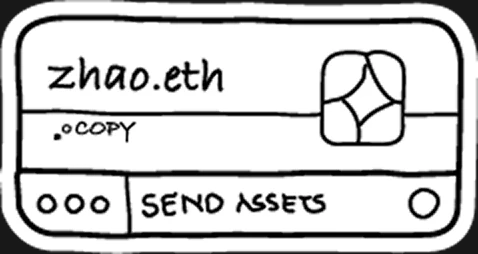
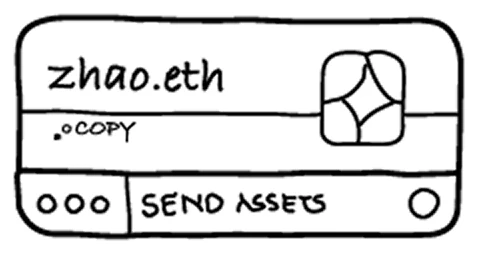
release: v0.73.0 — footer copy + breakpoint fix, transparent image alpha
- Footer credit → "Made in 2026" (single source, both variants)
- Footer responsive breakpoint → canonical (max-width: 767px), (max-height: 500px)
- Re-converted web3_abstractor + send_assets webp from source PNGs with alpha preserved
- Regenerated LQIP manifest (both now hasAlpha: true)
- Prepush skill: added performance-hygiene checks

Changed region(s): [[0.0, 0.3031, 1.0, 1.0], [0.0, 0.0, 1.0, 0.689]]

diff --git a/app/components/Img/manifest.generated.ts b/app/components/Img/manifest.generated.ts
@@ -124,10 +124,10 @@ export const imageManifest: Record<string, ImageManifestEntry> = {
   },
   "/images/biconomy/api/send_assets.webp": {
     "dominantColor": "rgb(248, 248, 248)",
-    "thumbHash": "8wcGBIAnWDeKd2mAhpcZLG8+DQ==",
+    "thumbHash": "9QeCA4AeNaqPdXQCatxfOTg3h4iAdBg=",
     "width": 478,
     "height": 254,
-    "hasAlpha": false
+    "hasAlpha": true
   },
   "/images/biconomy/demos/after.webp": {
     "dominantColor": "rgb(168, 136, 104)",
@@ -158,11 +158,11 @@ export const imageManifest: Record<string, ImageManifestEntry> = {
     "hasAlpha": false
   },
   "/images/biconomy/demos/web3_abstractor.webp": {
-    "dominantColor": "rgb(24, 24, 24)",
-    "thumbHash": "nSgOFIQmW3g0poewios3RHBDBA==",
+    "dominantColor": "rgb(8, 8, 8)",
+    "thumbHash": "NUmCA4AnxYtsZX86k6AzCSZbNKawulg=",
     "width": 546,
     "height": 302,
-    "hasAlpha": false
+    "hasAlpha": true
   },
   "/images/biconomy/flows/gas_tank_setup_after.webp": {
     "dominantColor": "rgb(24, 24, 24)",

diff --git a/app/components/Footer/Footer.tsx b/app/components/Footer/Footer.tsx
@@ -6,7 +6,7 @@
 // Layout (default variant):
 //
 //     ────────────────────────────────────────────────────────────
-//     Designed and dev. by Nihar, 2026   Privacy │ LinkedIn │ X │ GitHub
+//     Made in 2026   Privacy │ LinkedIn │ X │ GitHub
 //
 // Single row beneath the divider. Credit docks to the left, links dock
 // to the right. Within the links group, each link's padded box is the
@@ -26,7 +26,7 @@ const LINKS: { label: string; href: string; external?: boolean }[] = [
   { label: 'GitHub', href: 'https://github.com/niharya', external: true },
 ]
 
-const CREDIT = 'Designed and built with Claude by Nihar, 2026'
+const CREDIT = 'Made in 2026'
 
 // Hover-fill palettes for default-variant link cells, scoped per route.
 // Each route's two hues at the 800 luminance step — deeper / more

diff --git a/app/components/Footer/footer.css b/app/components/Footer/footer.css
@@ -343,7 +343,7 @@
 
 /* ── Responsive — narrow viewports ─────────────────────────────────────── */
 
-@media (max-width: 640px) {
+@media (max-width: 767px), (max-height: 500px) {
   /* Stack the row vertically: credit on top (centered), mid-divider,
      then a centered link cluster below. The top divider stays at the
      workbench seam; the new mid-divider sits between the two rows.

diff --git a/.claude/skills/prepush/SKILL.md b/.claude/skills/prepush/SKILL.md
@@ -116,7 +116,37 @@ Flag ⚠ for each deviation without a comment trail.
 - Verify `ANOMALIES.md` for that route has a "Responsive anomalies" section if drop-outs were made.
 - Flag ⚠ if responsive changes went in without the section being updated.
 
-### 10. Verification
+### 10. Performance hygiene (conditional)
+
+Reference: `docs/performance.md`. Run these checks **only if** the diff touches the matching surface area.
+
+**Fonts (touched `app/fonts/` or font config in `app/layout.tsx`):**
+- Any new `.woff2` added without a corresponding `localFont(...)` block in `layout.tsx`?
+- Any new external `<link>` to `fonts.googleapis.com` (or any CDN) reintroduced into `layout.tsx`?
+- Any reintroduction of the `font-gate` script or `.fonts-ready` / `.page-boot` CSS hooks?
+- Any `display:` value other than `'block'` on a new `localFont`?
+- `app/fonts/MaterialSymbolsRounded-normal.woff2` size jumped above ~1.3 MB? (May indicate the full font was committed.)
+
+Flag each as ⚠ with the file and the proposed fix per `docs/performance.md` → "Fonts" / "Material Symbols icons".
+
+**Images (touched `public/images/`):**
+- Any new raw `.png` / `.jpg` / `.jpeg` over **400 KB** committed without a `.webp` sibling in the same directory?
+- Any individual image file over **1 MB** in any format? (Soft per-file budget exceeded — needs justification.)
+- Any `<img>` or `<Image>` reference to a deleted raster path?
+
+Flag with file:size — propose `npm run optimize-images` and re-running `npm run lqip`.
+
+**Material Symbols icons (touched any `.tsx` with `material-symbols-rounded`):**
+- Any new ligature name (text content of a `material-symbols-rounded` span, or value passed to `<NavMarker icon=...>`) that isn't in the subsetted icon list in `docs/performance.md` → "Material Symbols icons"?
+
+Flag as ⚠ with the new name — propose adding it and re-subsetting per the doc.
+
+**Motion tokens (touched `--dur-*` declarations in `app/globals.css`):**
+- Any of `--dur-instant`, `--dur-fast`, `--dur-slide`, `--dur-settle`, `--dur-glide` changed?
+
+Flag as ⚠ — propose either reverting or noting the rationale in `docs/performance.md` → "Motion tokens".
+
+### 11. Verification
 
 **If** the diff touched any file that would be observable in `preview_*` (components, route CSS, globals.css, layouts):
 
@@ -148,6 +178,8 @@ Examples of well-formed lines:
 - `⚠  CLAUDE.md: /prepush skill added but not mentioned in "Versioning and pushing".`
 - `↳  Agent suggestion: responsive-guardian — diff touches 4 @media blocks. Run it?`
 - `↳  UI-observable diff; dev server not started this session — preview before push?`
+- `⚠  Perf: rr-hero.png (2.1 MB) committed without .webp — run npm run optimize-images?`
+- `⚠  Perf: new icon "settings" used in NavMarker but not in subsetted list — re-subset?`
 
 If all checks pass, say so:
 
